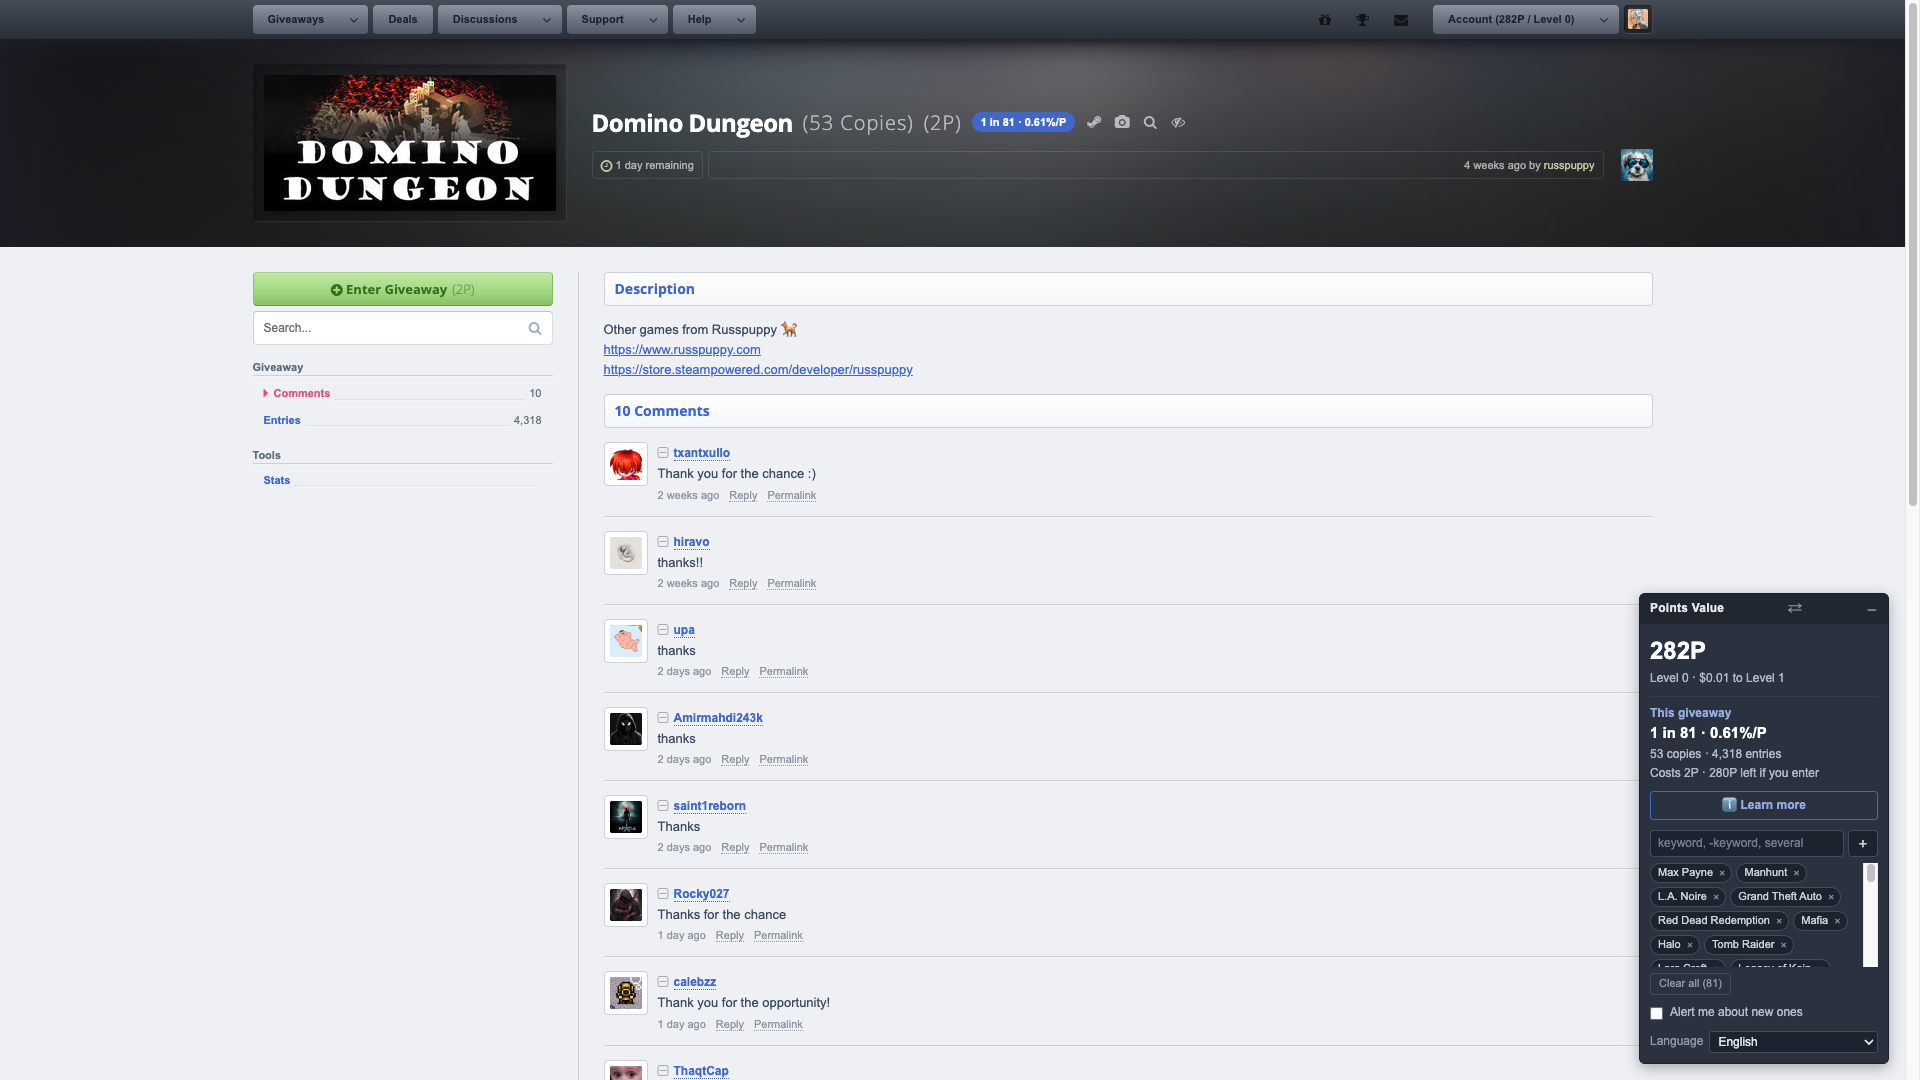
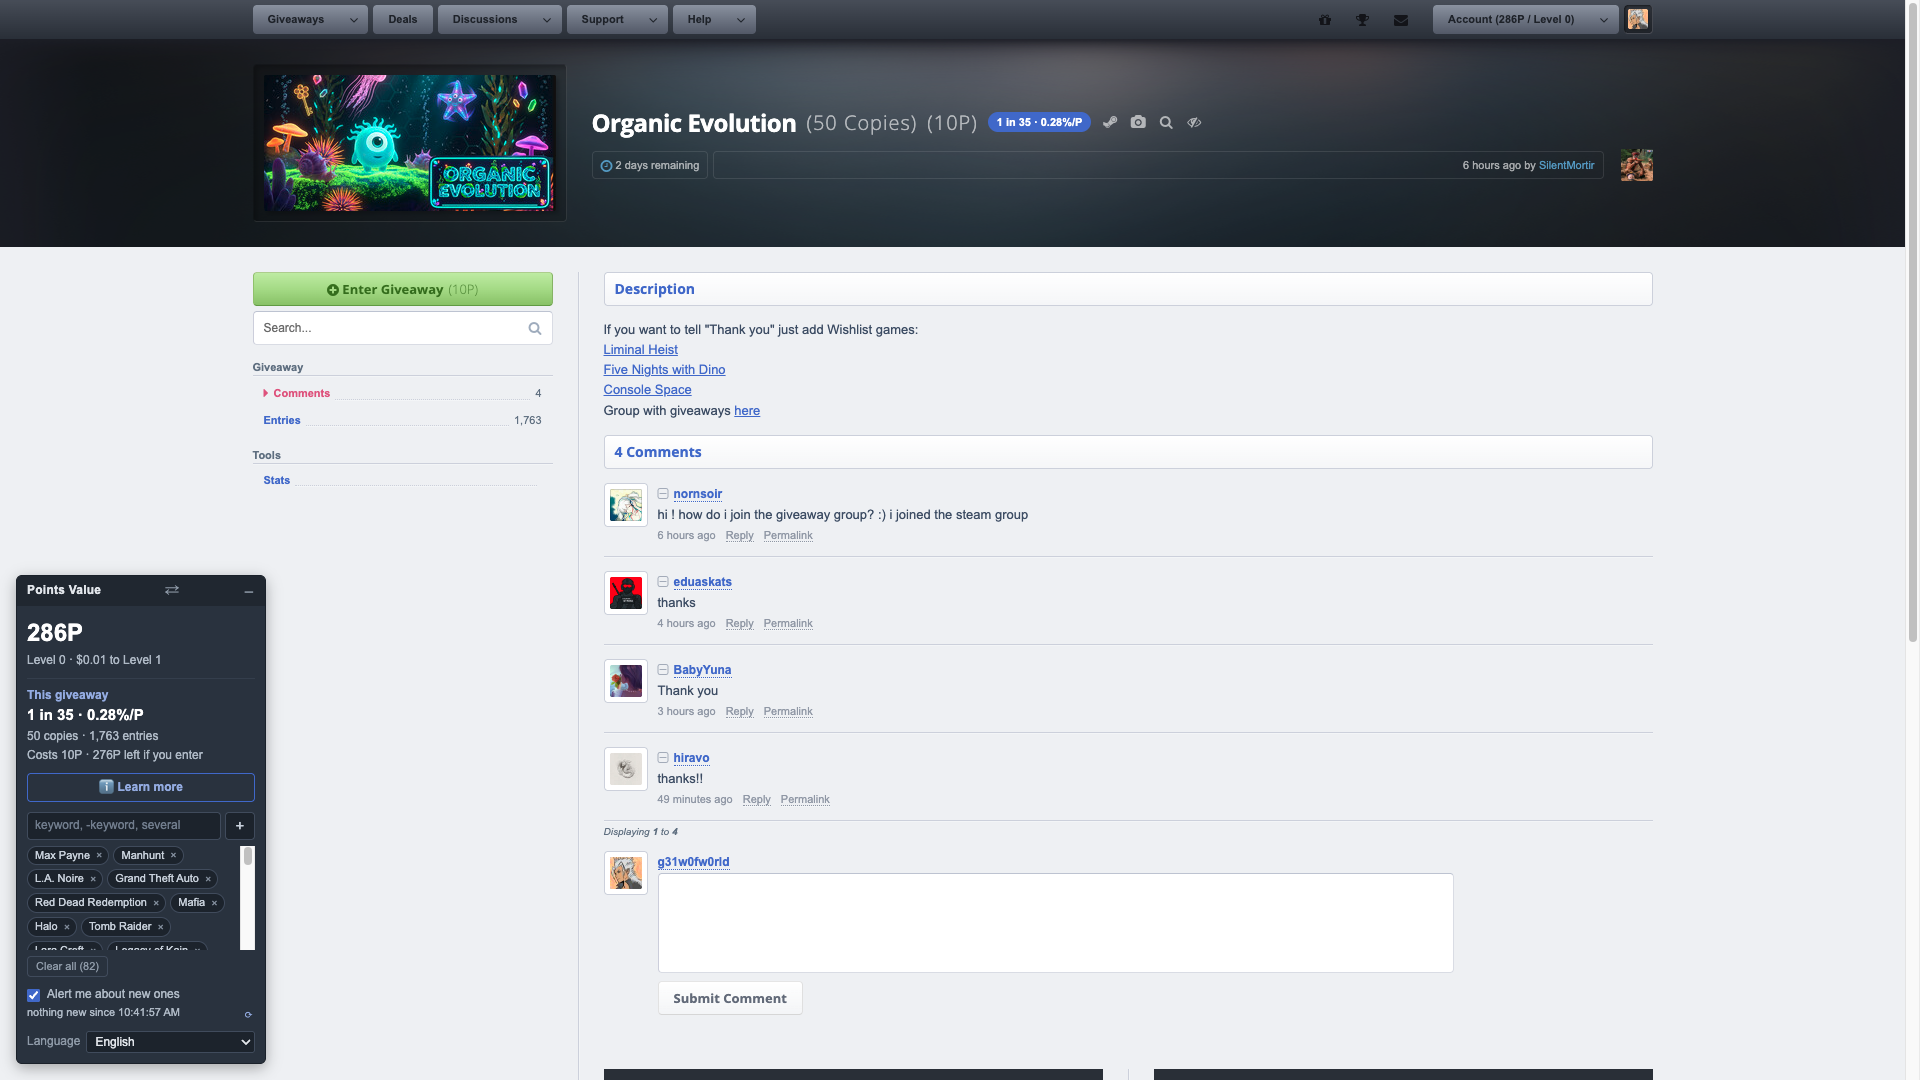
docs(steamgifts-points-value): capturas al día con el panel a la izquierda, la cuarta casilla y cifras nuevas en los pies

diff --git a/README.md b/README.md
@@ -2,19 +2,19 @@
 
 Tampermonkey userscript that works out the real odds of every SteamGifts giveaway and what they cost you in points. / Userscript de Tampermonkey que calcula la probabilidad real de cada sorteo de SteamGifts y lo que te cuesta en puntos.
 
-![The listing sorted by value: odds and value per point on every row, the widget on one side and the matches panel on the other, each with a button that folds it](docs/screenshot-listing.png)
+![The listing in the site's own order: odds and value per point on every row, the widget on the left with the sort button still unpressed](docs/screenshot-listing.png)
 
-*The listing: odds and value per point on every row, sorted best-first, the widget with your balance, your level, what is within reach, your keywords and the three checkboxes, and on the opposite side the panel listing your matches — click one and it jumps to its row. Both fold to their header. / El listado: probabilidad y valor por punto en cada fila, ordenado de mejor a peor, el widget con tu saldo, tu nivel, lo que te alcanza, tus palabras clave y las tres casillas, y al otro lado el panel que lista tus coincidencias —pulsa una y salta a su fila—. Los dos se pliegan a su cabecera.*
+*The listing as you land on it: odds and value per point on every row, in the site's own order, and the widget with your balance, your level, what is within reach, the best value on the page, your keywords and the four checkboxes. It folds to its header, and one button there moves it to the other side. / El listado tal como llegas a él: probabilidad y valor por punto en cada fila, en el orden del propio sitio, y el widget con tu saldo, tu nivel, lo que te alcanza, el mejor valor de la página, tus palabras clave y las cuatro casillas. Se pliega a su cabecera, y un botón de ahí lo pasa al otro lado.*
 
-![The same listing with the alerts on: three more pages have been loaded and the panel lists the four matches, each with a bell and an eye](docs/screenshot-matches-only.png)
+![The same listing sorted by value and with the alerts on: four more pages have been loaded and the panel on the opposite side lists the two matches, each with a bell and an eye](docs/screenshot-matches-only.png)
 
-*The same page with the alerts on: the pass pulled three more pages into it —125 giveaways— and flagged the four that match, each with a 🔔 in the panel and an eye that marks it as seen, and the widget says when it last checked. Nothing is removed: tick "show matches only" and the rest of the rows just stop being painted. / La misma página con los avisos puestos: la revisión trajo tres páginas más —125 sorteos— y marcó los cuatro que casan, cada uno con su 🔔 en el panel y su ojo para darlo por visto, y el widget dice cuándo revisó por última vez. No se quita nada: marca «mostrar solo coincidencias» y las demás filas solo dejan de pintarse.*
+*The same page sorted by value and with the alerts on: the pass pulled four more pages into it —158 giveaways, best 1 in 29— and flagged the two that match, each with a 🔔 in the panel on the opposite side and an eye that marks it as seen; click one and it jumps to its row. The widget says when it last checked. Nothing is removed: tick "show matches only" and the rest of the rows just stop being painted. / La misma página ordenada por valor y con los avisos puestos: la revisión trajo cuatro páginas más —158 sorteos, el mejor 1 de 29— y marcó los dos que casan, cada uno con su 🔔 en el panel del lado opuesto y su ojo para darlo por visto; pulsa uno y salta a su fila. El widget dice cuándo revisó por última vez. No se quita nada: marca «mostrar solo coincidencias» y las demás filas solo dejan de pintarse.*
 
-![A single-copy giveaway page: 10P, 2,053 entries, badge reading 1 in 2,053 and under 0.01%/P](docs/screenshot-giveaway-single.png)
+![A single-copy giveaway page: 30P, 2,638 entries, badge reading 1 in 2,638 and under 0.01%/P](docs/screenshot-giveaway-single.png)
 
-![A 53-copy giveaway page: 2P, 4,318 entries, badge reading 1 in 81 and 0.61%/P](docs/screenshot-giveaway-copies.png)
+![A 50-copy giveaway page: 10P, 1,763 entries, badge reading 1 in 35 and 0.28%/P](docs/screenshot-giveaway-copies.png)
 
-*Inside a giveaway: the same two numbers next to its title and in the widget, plus what your balance is left at if you enter. These two are the whole point of the script — 2,053 entries against 4,318 make the first one look like the safer bet, but that one is a single copy at 10P and the other 53 copies at 2P, which is 1 in 2,053 versus 1 in 81, and under 0.01%/P versus 0.61%/P: the emptier giveaway is the worse one, and it costs five times as much. / Dentro de un sorteo: los dos mismos números junto a su título y en el widget, además de en cuánto queda tu saldo si entras. Estas dos son el script entero en una imagen —2.053 entradas parecen mejor apuesta que 4.318, pero ese es de copia única a 10P y el otro de 53 copias a 2P, o sea 1 de 2.053 contra 1 de 81, y menos de 0,01 %/P contra 0,61 %/P: el menos concurrido es el peor, y encima cuesta cinco veces más—.*
+*Inside a giveaway: the same two numbers next to its title and in the widget, plus what your balance is left at if you enter. These two are the whole point of the script — 2,638 entries and 1,763 are the same kind of number, and yet the first is a single copy at 30P and the second 50 copies at 10P, which is 1 in 2,638 versus 1 in 35, and under 0.01%/P versus 0.28%/P: the busier-looking giveaway is seventy-five times likelier to land, and it costs a third as much. / Dentro de un sorteo: los dos mismos números junto a su título y en el widget, además de en cuánto queda tu saldo si entras. Estas dos son el script entero en una imagen —2.638 entradas y 1.763 son cifras del mismo orden, y aun así el primero es de copia única a 30P y el segundo de 50 copias a 10P, o sea 1 de 2.638 contra 1 de 35, y menos de 0,01 %/P contra 0,28 %/P: el que parece más concurrido tiene setenta y cinco veces más probabilidad de caer, y encima cuesta la tercera parte—.*
 
 ## English
 
